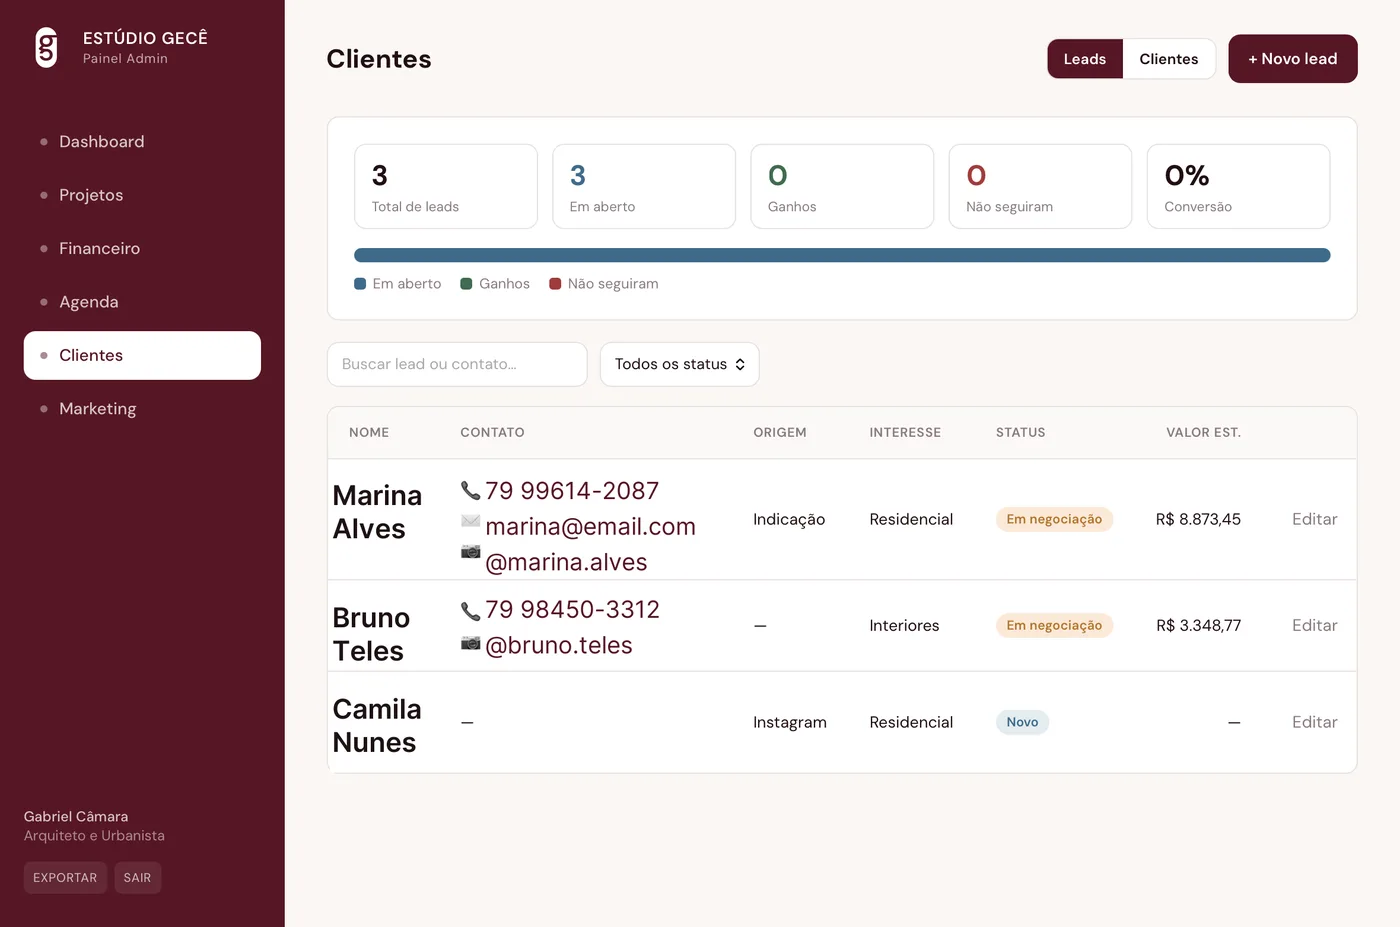
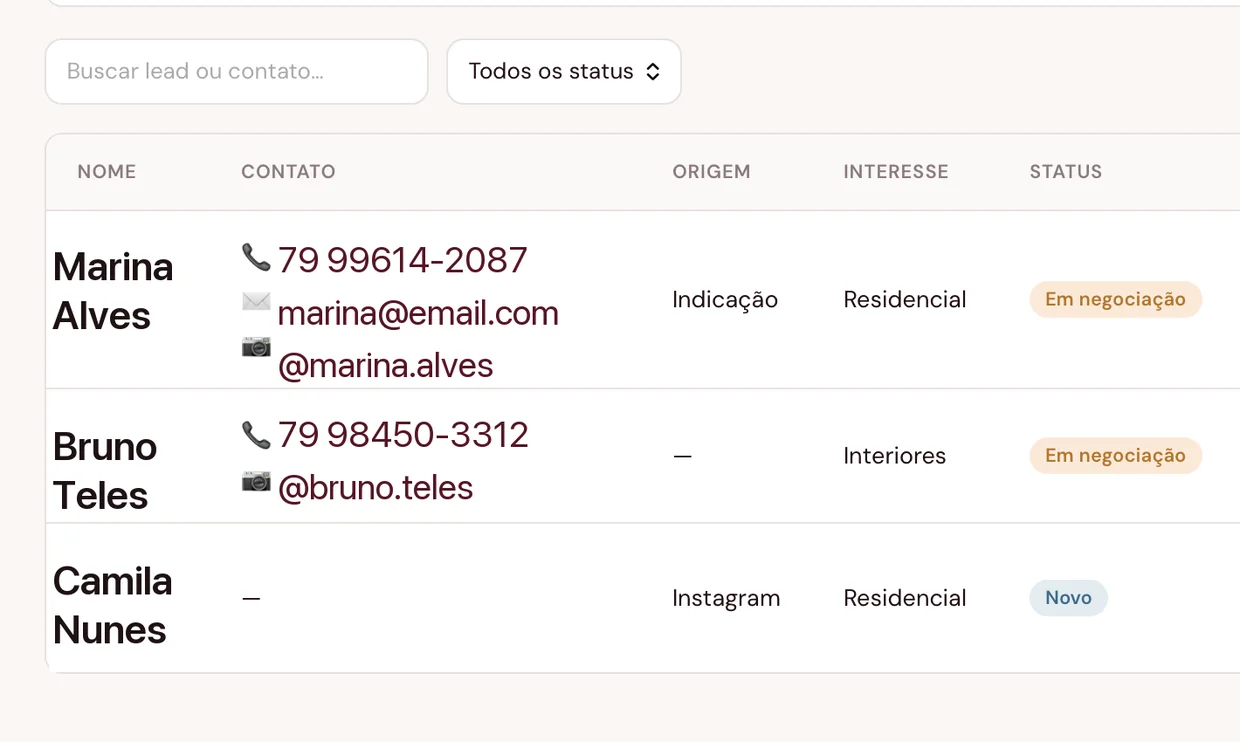
servicos: CRM do Gecê recortado na tabela e em SF Pro (legível) + gap menor no lockup do CTA

diff --git a/servicos/index.html b/servicos/index.html
@@ -217,7 +217,7 @@
     .cta-final__titulo { font-family: var(--clother); font-weight: 900; font-size: clamp(1.9rem, 5.5vw, 4rem); line-height: 1; letter-spacing: -0.01em; text-transform: uppercase; margin-bottom: 16px; color: var(--preto); }
     .cta-final__lockup { display: inline-block; text-align: left; margin: 0 auto clamp(22px, 3.2vh, 34px); }
     .cta-final__logo { display: block; width: clamp(158px, 24vw, 248px); height: auto; filter: brightness(0); }
-    .cta-final__logo-sub { display: block; font-family: var(--clother); font-weight: 700; text-transform: uppercase; letter-spacing: 0.14em; font-size: clamp(0.6rem, 1.05vw, 0.78rem); color: var(--preto); margin-top: 0.55em; margin-left: 0.12em; }
+    .cta-final__logo-sub { display: block; font-family: var(--clother); font-weight: 700; text-transform: uppercase; letter-spacing: 0.14em; font-size: clamp(0.6rem, 1.05vw, 0.78rem); color: var(--preto); margin-top: 0.28em; margin-left: 0.12em; }
     .cta-final__btn {
       display: inline-flex; align-items: center; gap: 14px;
       font-family: var(--clother); font-weight: 900; font-size: 0.95rem; letter-spacing: 0.06em; text-transform: uppercase;
@@ -342,7 +342,7 @@
               <figcaption>Portal do cliente — etapas do projeto, arquivos e agenda</figcaption>
             </figure>
             <figure class="serv-shot">
-              <img src="/servicos-gece-crm.webp?v=1" alt="Painel de leads do Estúdio Gecê: contatos, origem, interesse, status da negociação e valor estimado" loading="lazy" width="1400" height="927">
+              <img src="/servicos-gece-crm.webp?v=2" alt="Painel de leads do Estúdio Gecê: contatos, origem, interesse, status da negociação e valor estimado" loading="lazy" width="1240" height="742">
               <figcaption>Leads e clientes — origem, status e valor de cada contato</figcaption>
             </figure>
             <figure class="serv-shot">
